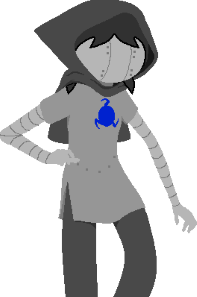
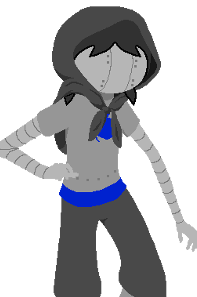
ABs new body and class is ready

diff --git a/javascripts/Scenes/YellowYard.js b/javascripts/Scenes/YellowYard.js
@@ -226,7 +226,7 @@ BTW: please note that Hussie, as the Waste of Space, uses his YellowYard and a F
 		chat += "AB: WAIT! Don't forget to give the Observer the standard warning!\n"
 		chat += "JR: Oh. Right. \n"
 		chat += "JR: 'So. Shit gets complicated when you add time shenanigans. MOST sessions will be fine. Don't worry about it.  But,  I can't be expected to debug every scratched session that becomes a 3xSESSION combo that gets to here and then gets scratched again and so on and so forth.  Use your discretion. If things get complicated enough, the session might just shit itself.  Weird stuff starts happening. Players enter the session already god tier. Or dead. Sessions crash because they don't recognize their own players.  If something weird happens, you can tell me, just check the FAQ to see how. Give me the session ID, tell me what events lead to the shenanigans. But odds are that in attempting to debug it I will modify the code just enough to make your incredibly rare bullshit session not even exist anymore. And that's a shitty way to fix a bug. ' \n "
-		chat += "AB: I still say you could just let me interact with scratched sessions, and ones like this. \n"
+		chat += "AB: I still say you could just let me interact with sessions like this. \n"
 		chat += "JR: Holy shit, I do that and you might NEVER come back. I almost lost you in a 5x Session Combo already. Denied. \n"
 
 		drawChatABJR(canvasDiv, chat);

diff --git a/newsposts.html b/newsposts.html
@@ -82,7 +82,7 @@
 <body style = "background: url(images/copypasta_blend.png); background-position: center">
 
 <div id = "navbar"></div>
-<img src = "images/robot_author.png" style="float:left;filter:FlipH">
+<img src = "images/guide_bot.png" style="float:left;filter:FlipH">
 <img src = "images/author_turnways.png" style="float:right;">
 <div id = "container">
 	<div id = "robo_newsposts"> </div>

diff --git a/rare_session_finder.html b/rare_session_finder.html
@@ -81,7 +81,7 @@
 
 <div id = "navbar"></div>
 
-    <img id = "avatar" src = "images/robot_author.png" style="float:left;">
+    <img id = "avatar" src = "images/guide_bot.png" style="float:left;">
 
 		<div id = "spiel">
 		<h2 id = "heading">Rare Session Finder AuthorBot </h2><a href = "rare_session_finder_junior.html">AuthorBotJunior</a><br><br>
